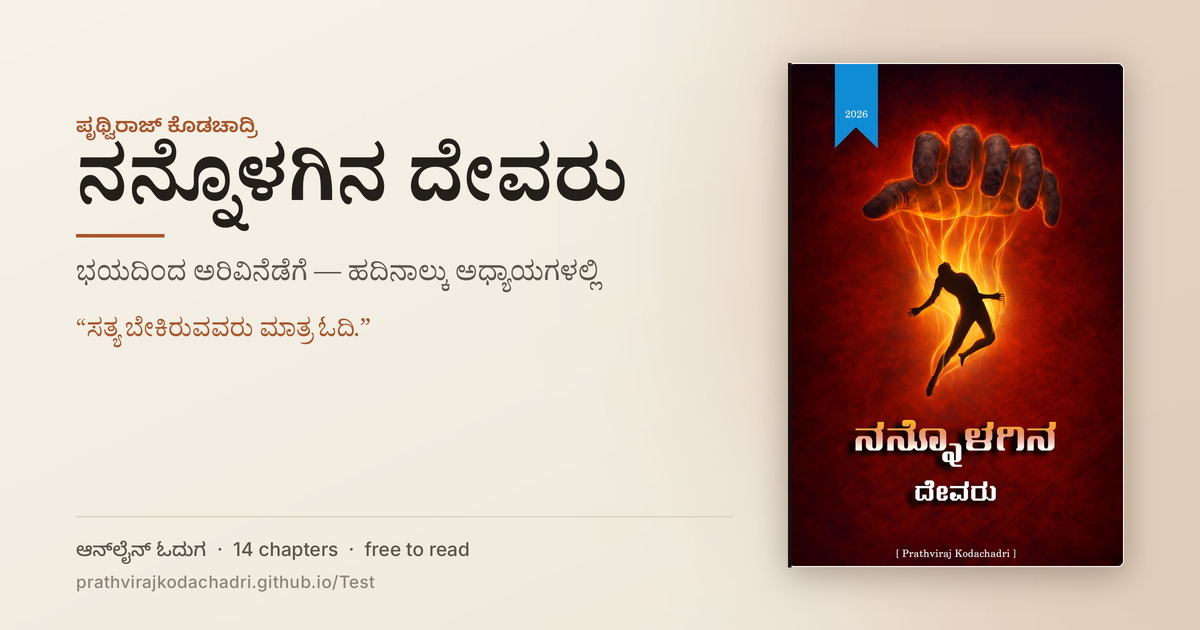
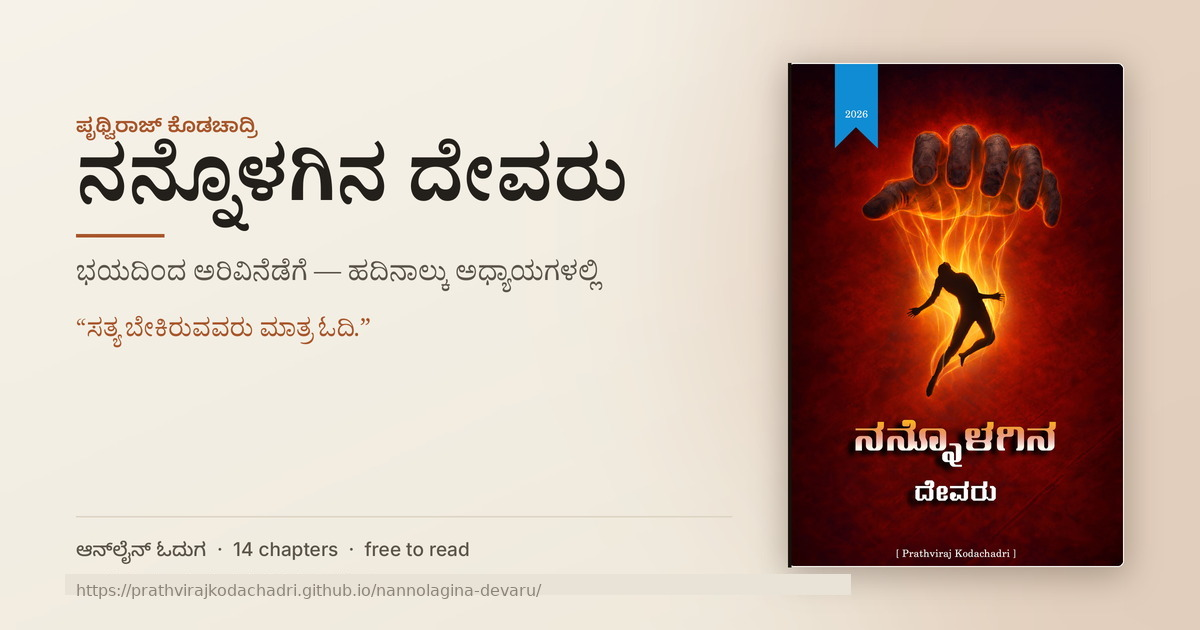
Fix OG image URL: add https:// prefix and trailing slash
- Updated the URL rendered on preview.jpg from
  prathvirajkodachadri.github.io/nannolagina-devaru to
  https://prathvirajkodachadri.github.io/nannolagina-devaru/
- Also updated tools/make_preview.py so future regenerations
  produce the correct URL

Changed region(s): [[0.0617, 0.9048, 0.4317, 0.9651], [0.6475, 0.9048, 0.7092, 0.9349]]

diff --git a/tools/make_preview.py b/tools/make_preview.py
@@ -357,7 +357,7 @@ def build_preview(meta: dict) -> Image.Image:
     foot = f"ಆನ್\u200Cಲೈನ್ ಓದುಗ  ·  {meta['chapters']} chapters  ·  free to read"
     draw_text(img, (x, fy), foot, 19 * SCALE, INK_SOFT, SANS_LATIN_REG, SANS_KN_REG)
     draw_text(
-        img, (x, fy + 32 * SCALE), "prathvirajkodachadri.github.io/nannolagina-devaru",
+        img, (x, fy + 32 * SCALE), "https://prathvirajkodachadri.github.io/nannolagina-devaru/",
         17 * SCALE, INK_FAINT, SANS_LATIN_REG, SANS_KN_REG, tracking=0.4 * SCALE,
     )
 
